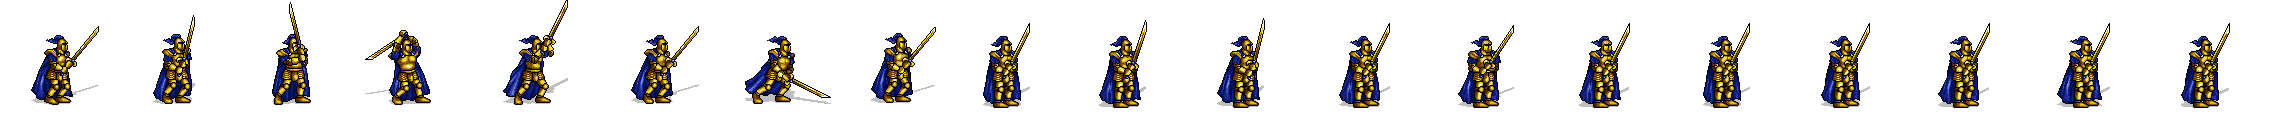
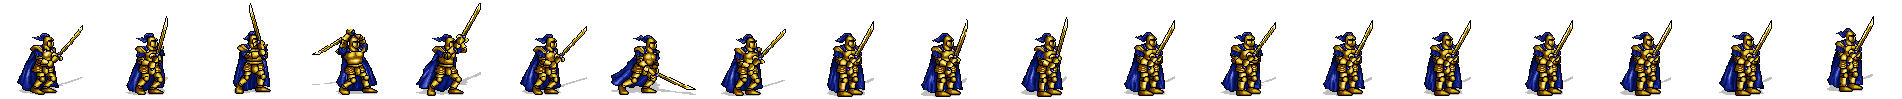
add Infants

Changed region(s): [[0.0, 0.0606, 0.9926, 0.9697]]

diff --git a/CEnemyManager.h b/CEnemyManager.h
@@ -1,5 +1,7 @@
 #pragma once
-#include"CEnemyInfant.h"
+#include"CCrusader.h"
+#include"CPeasant.h"
+#include"CWarrior.h"
 #include"CEnemyList.h"
 //#include"SoundManager.h"
 
@@ -28,7 +30,7 @@ public:
 	{ 
 		m_nStage = nStage;
 		m_nSpawnTimer = 0;
-		CObject* newObj = new CEnemyInfant;
+		CObject* newObj = new CWarrior;
 		m_enemyList.Insert(newObj);
 	}
 
@@ -44,9 +46,16 @@ public:
 
 		if (m_nSpawnTimer >= SPAWN_ENEMY) {
 			m_nSpawnTimer %= SPAWN_ENEMY;
-			int nTmp = rand() % m_nStage + 2;
+			int nTmp = rand() % (m_nStage+2) + 2;
 			for (int i = 0;i < nTmp;++i) {
-				CObject* newObj = new CEnemyInfant;
+				int random = rand() % 3;
+				CObject* newObj;
+				if (random == 0)
+					newObj = new CPeasant;
+				else if (random == 1)
+					newObj = new CCrusader;
+				else
+					newObj = new CWarrior;
 				m_enemyList.Insert(newObj);
 			}
 		}

diff --git a/CEnemyInfant.h b/CEnemyInfant.h
@@ -2,13 +2,15 @@
 #include"CObject.h"
 
 class CEnemyInfant : public CObject {
+protected:
+
 	int m_nSpeed;
 	int m_nDeadTimer;
 public:
-	void Init() override;
-	void SetPosition() override;
-	void DrawObject(HDC hdc)override;
-	void Move()override;
-	void SetFrameType(const int& nType) override;
-	void GetUpgrade()override {};
+	virtual void Init() override = 0;
+	void SetPosition() override final;
+	void DrawObject(HDC hdc)override final;
+	void Move()override final;
+	void SetFrameType(const int& nType) override final;
+	void GetUpgrade()override final {};
 };

diff --git a/CCrusader.h b/CCrusader.h
@@ -1,0 +1,7 @@
+#pragma once
+#include"CEnemyInfant.h"
+
+class CCrusader : public CEnemyInfant {
+public:
+	void Init() override final;
+};

diff --git a/CPeasant.h b/CPeasant.h
@@ -1,0 +1,7 @@
+#pragma once
+#include"CEnemyInfant.h"
+
+class CPeasant : public CEnemyInfant {
+public:
+	void Init() override final;
+};

diff --git a/CWarrior.h b/CWarrior.h
@@ -1,0 +1,7 @@
+#pragma once
+#include"CEnemyInfant.h"
+
+class CWarrior : public CEnemyInfant {
+public:
+	void Init() override final;
+};
